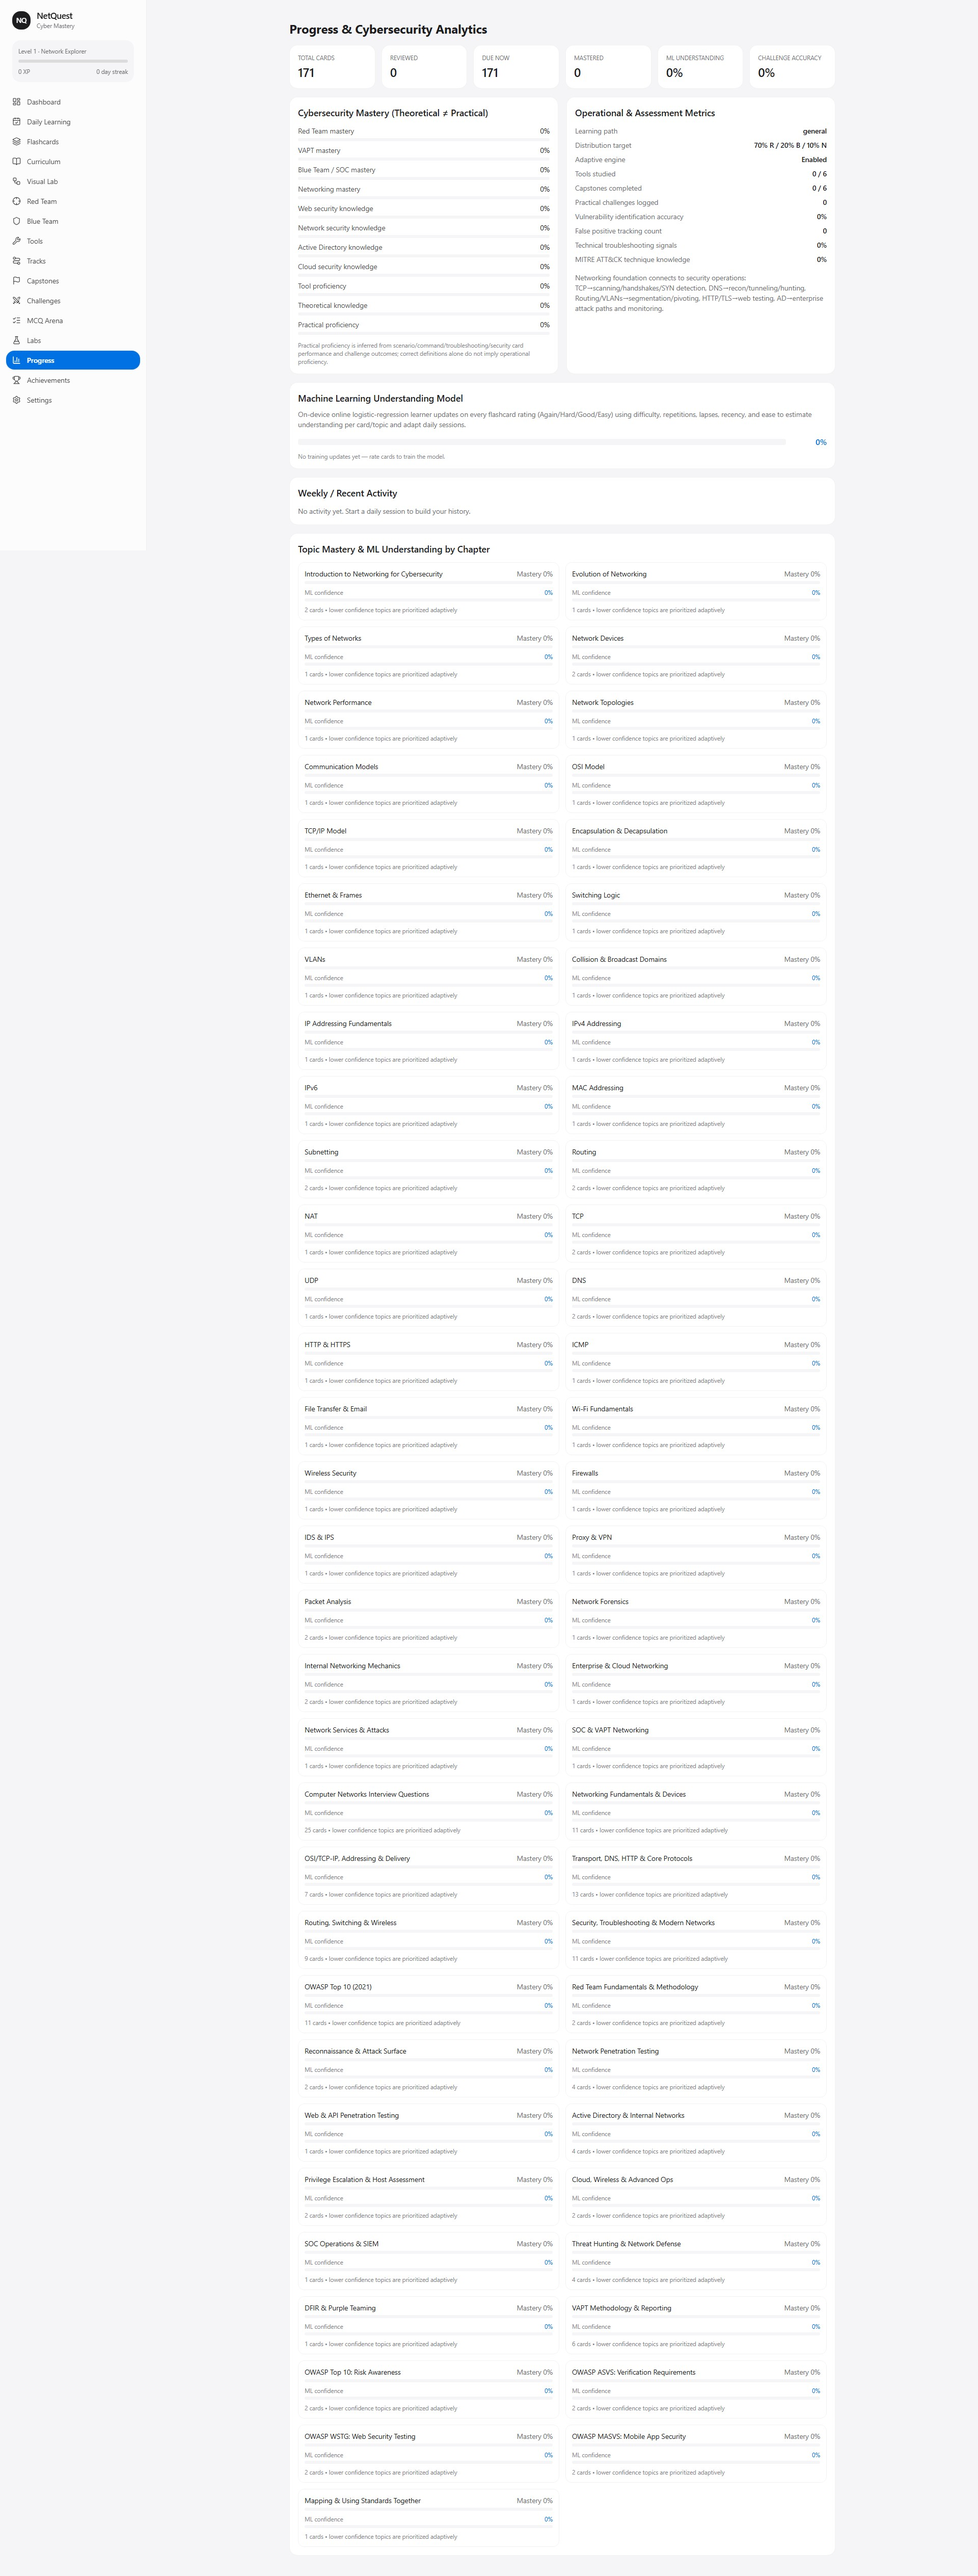
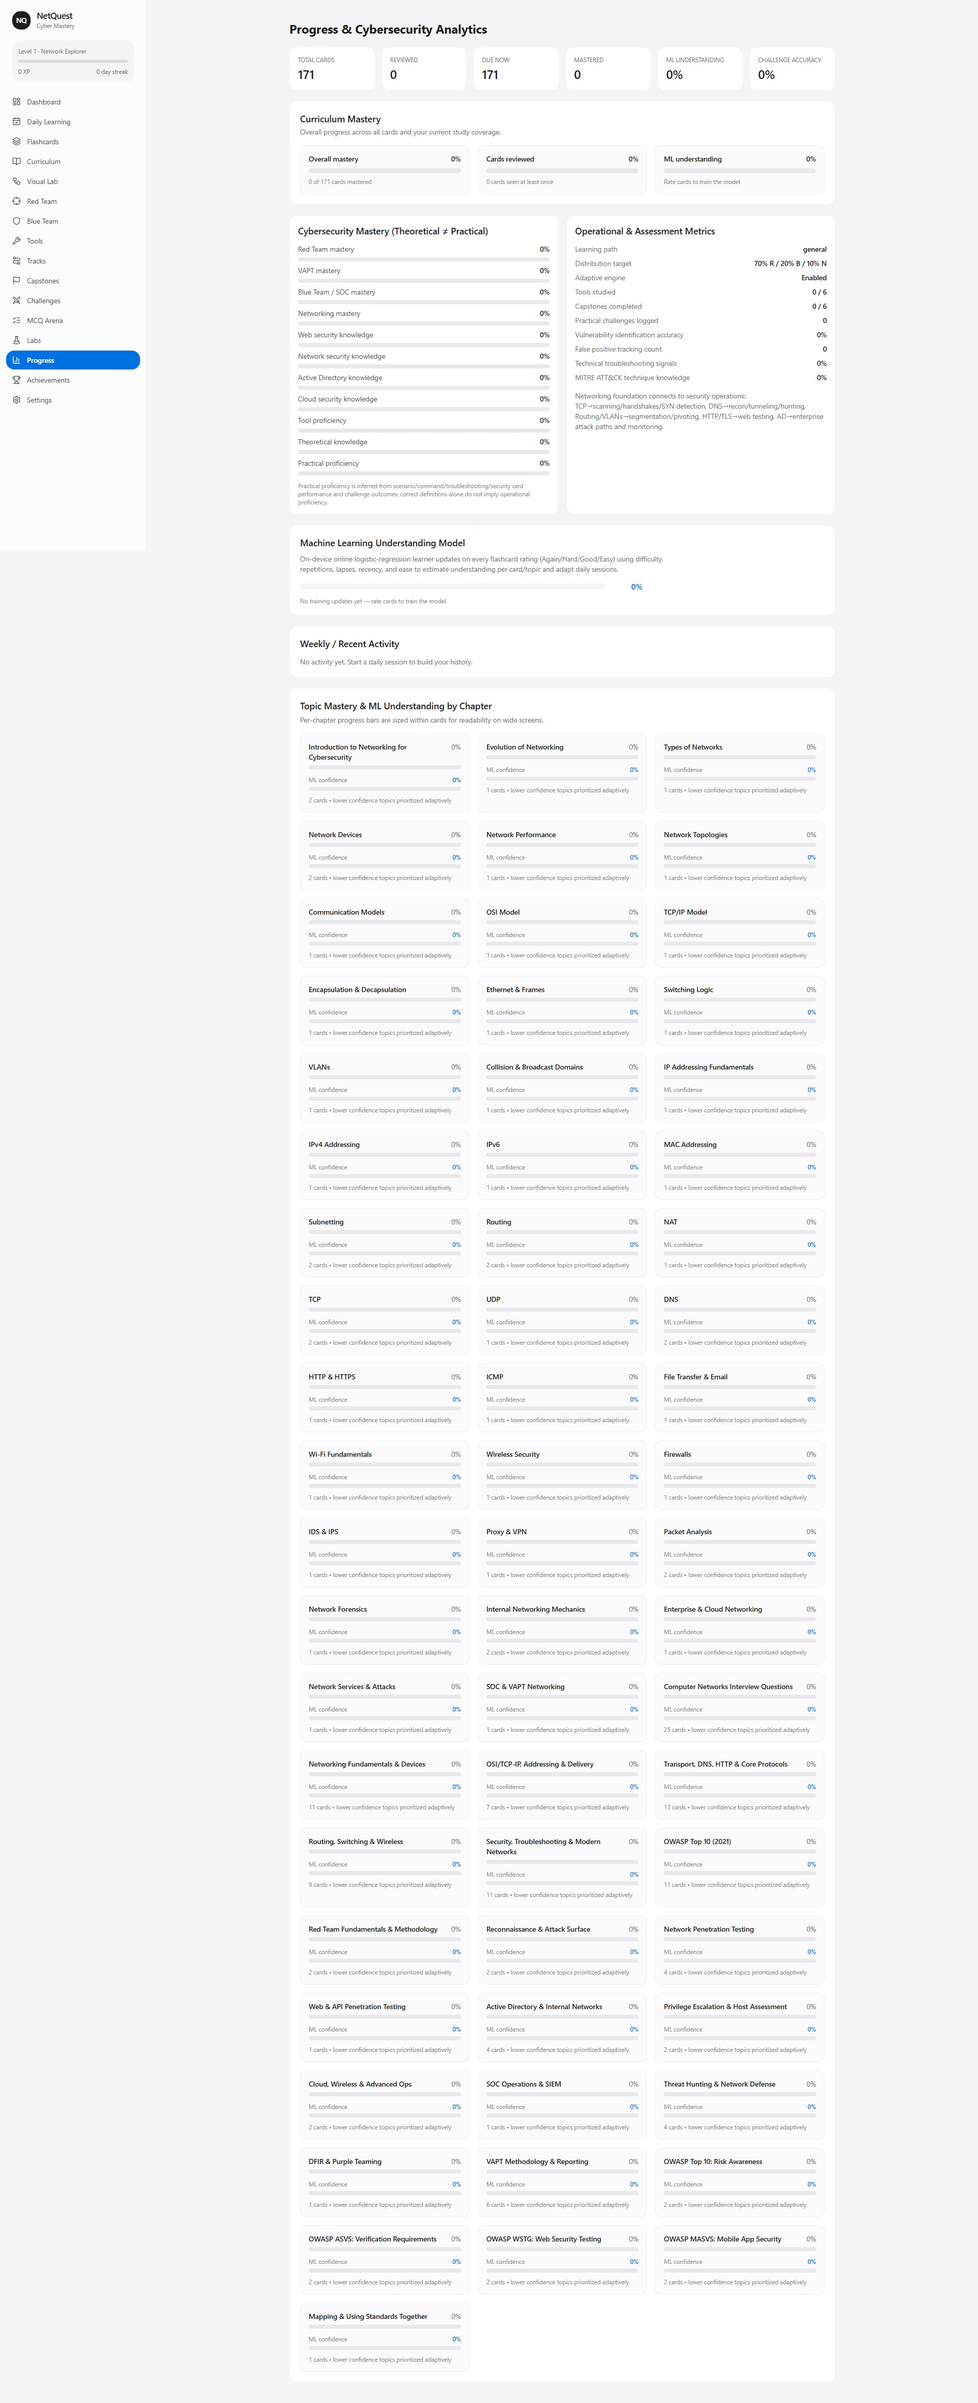
Improve Progress layout and retake progress screenshot

diff --git a/src/pages/Progress.tsx b/src/pages/Progress.tsx
@@ -11,6 +11,8 @@ export default function Progress() {
   const due = flashcards.filter(c => isDue(progress.reviews[c.id])).length
   const mlOverall = getOverallUnderstanding()
   const mlUpdates = progress.ml?.totalUpdates || 0
+  const completion = total ? Math.round((mastered / total) * 100) : 0
+  const reviewCoverage = total ? Math.round((reviewed / total) * 100) : 0
   const byChapter = chapters.map(ch => {
     const cards = flashcards.filter(f=>f.chapterId===ch.id)
     const avg = cards.length ? Math.round(cards.reduce((a,c)=>a+masteryFromReview(progress.reviews[c.id]),0)/cards.length) : 0
@@ -31,7 +33,7 @@ export default function Progress() {
   const practical = practicalCards.length ? Math.round((practicalCards.filter(c=> (progress.reviews[c.id]?.repetitions||0)>=4 && ['good','easy'].includes(progress.reviews[c.id]?.lastRating||'')).length / practicalCards.length)*100) : 0
   const theoretical = total ? Math.round((Object.values(progress.reviews).filter(r=>masteryFromReview(r)>=80).length / total)*100) : 0
 
-  return <div className="space-y-4">
+  return <div className="space-y-5">
     <h1 className="text-2xl font-bold text-[#1d1d1f]">Progress & Cybersecurity Analytics</h1>
     <div className="grid grid-cols-2 md:grid-cols-3 lg:grid-cols-6 gap-3">
       <Box label="Total Cards" value={`${total}`} />
@@ -40,6 +42,28 @@ export default function Progress() {
       <Box label="Mastered" value={`${mastered}`} />
       <Box label="ML Understanding" value={`${mlOverall}%`} />
       <Box label="Challenge Accuracy" value={`${challengeAcc}%`} />
+    </div>
+
+    <div className="rounded-2xl border border-black/5 bg-white p-5">
+      <h2 className="text-lg font-semibold text-[#1d1d1f]">Curriculum Mastery</h2>
+      <p className="text-sm text-[#6e6e73] mt-0.5">Overall progress across all cards and your current study coverage.</p>
+      <div className="mt-4 grid sm:grid-cols-2 lg:grid-cols-3 gap-4">
+        <div className="rounded-xl border border-black/5 bg-[#fbfbfd] p-4">
+          <div className="flex items-center justify-between gap-3 text-sm mb-2"><span className="text-[#1d1d1f] font-medium">Overall mastery</span><span className="text-[#1d1d1f] font-semibold">{completion}%</span></div>
+          <div className="h-2.5 rounded-full bg-[#e8e8ed] overflow-hidden max-w-md"><div className="h-full bg-gradient-to-r from-[#0071e3] to-[#34c759] rounded-full transition-all" style={{width:`${completion}%`}} /></div>
+          <div className="text-xs text-[#86868b] mt-2">{mastered} of {total} cards mastered</div>
+        </div>
+        <div className="rounded-xl border border-black/5 bg-[#fbfbfd] p-4">
+          <div className="flex items-center justify-between gap-3 text-sm mb-2"><span className="text-[#1d1d1f] font-medium">Cards reviewed</span><span className="text-[#1d1d1f] font-semibold">{reviewCoverage}%</span></div>
+          <div className="h-2.5 rounded-full bg-[#e8e8ed] overflow-hidden max-w-md"><div className="h-full bg-[#5ac8fa] rounded-full transition-all" style={{width:`${reviewCoverage}%`}} /></div>
+          <div className="text-xs text-[#86868b] mt-2">{reviewed} cards seen at least once</div>
+        </div>
+        <div className="rounded-xl border border-black/5 bg-[#fbfbfd] p-4">
+          <div className="flex items-center justify-between gap-3 text-sm mb-2"><span className="text-[#1d1d1f] font-medium">ML understanding</span><span className="text-[#1d1d1f] font-semibold">{mlOverall}%</span></div>
+          <div className="h-2.5 rounded-full bg-[#e8e8ed] overflow-hidden max-w-md"><div className="h-full bg-gradient-to-r from-cyan-500 to-emerald-400 rounded-full transition-all" style={{width:`${mlOverall}%`}} /></div>
+          <div className="text-xs text-[#86868b] mt-2">{mlUpdates === 0 ? 'Rate cards to train the model' : `${mlUpdates} training updates`}</div>
+        </div>
+      </div>
     </div>
 
     <div className="grid md:grid-cols-2 gap-4">
@@ -78,28 +102,29 @@ export default function Progress() {
       </div>
     </div>
 
-    <div className="rounded-2xl border border-black/5 bg-white p-4">
+    <div className="rounded-2xl border border-black/5 bg-white p-5">
       <h2 className="text-lg font-semibold text-[#1d1d1f] mb-2">Machine Learning Understanding Model</h2>
-      <p className="text-sm text-[#6e6e73] mb-3">On-device online logistic-regression learner updates on every flashcard rating (Again/Hard/Good/Easy) using difficulty, repetitions, lapses, recency, and ease to estimate understanding per card/topic and adapt daily sessions.</p>
-      <div className="flex items-center gap-4">
-        <div className="flex-1 h-3 rounded bg-[#f5f5f7] overflow-hidden"><div className="h-full bg-gradient-to-r from-cyan-500 to-emerald-400" style={{width:`${mlOverall}%`}} /></div>
-        <div className="text-[#0071e3] font-semibold w-16 text-right">{mlOverall}%</div>
+      <p className="text-sm text-[#6e6e73] mb-3 max-w-3xl">On-device online logistic-regression learner updates on every flashcard rating (Again/Hard/Good/Easy) using difficulty, repetitions, lapses, recency, and ease to estimate understanding per card/topic and adapt daily sessions.</p>
+      <div className="flex items-center gap-4 max-w-2xl">
+        <div className="flex-1 h-3 rounded-full bg-[#f5f5f7] overflow-hidden"><div className="h-full bg-gradient-to-r from-cyan-500 to-emerald-400 rounded-full transition-all" style={{width:`${mlOverall}%`}} /></div>
+        <div className="text-[#0071e3] font-semibold w-14 text-right tabular-nums">{mlOverall}%</div>
       </div>
       <div className="text-xs text-[#86868b] mt-2">{mlUpdates === 0 ? 'No training updates yet — rate cards to train the model.' : `Trained on ${mlUpdates} rating events with persistent model weights and topic understanding.`}</div>
     </div>
 
-    <div className="rounded-2xl border border-black/5 bg-white p-4">
+    <div className="rounded-2xl border border-black/5 bg-white p-5">
       <h2 className="text-lg font-semibold text-[#1d1d1f] mb-3">Weekly / Recent Activity</h2>
-      <div className="space-y-2">{progress.history.slice().reverse().slice(0,14).map(h=> <div key={h.date} className="flex items-center gap-3 text-sm"><div className="w-28 text-[#6e6e73]">{h.date}</div><div className="flex-1 h-2 bg-[#f5f5f7] rounded overflow-hidden"><div className="h-full bg-[#0071e3]" style={{width:`${Math.min(100,h.cards*10)}%`}} /></div><div className="w-28 text-right text-[#1d1d1f]/80">{h.cards} cards • {h.xp} XP</div></div>)}
+      <div className="space-y-2.5 max-w-3xl">{progress.history.slice().reverse().slice(0,14).map(h=> <div key={h.date} className="flex items-center gap-3 text-sm"><div className="w-28 shrink-0 text-[#6e6e73]">{h.date}</div><div className="flex-1 h-2.5 bg-[#f5f5f7] rounded-full overflow-hidden"><div className="h-full bg-[#0071e3] rounded-full transition-all" style={{width:`${Math.min(100,h.cards*10)}%`}} /></div><div className="w-32 shrink-0 text-right text-[#1d1d1f]/80 tabular-nums">{h.cards} cards • {h.xp} XP</div></div>)}
       {progress.history.length===0 && <div className="text-[#6e6e73] text-sm">No activity yet. Start a daily session to build your history.</div>}</div>
     </div>
 
-    <div className="rounded-2xl border border-black/5 bg-white p-4">
-      <h2 className="text-lg font-semibold text-[#1d1d1f] mb-3">Topic Mastery & ML Understanding by Chapter</h2>
-      <div className="grid md:grid-cols-2 gap-3">{byChapter.map(({ch,count,avg,ml})=> <div key={ch.id} className="border border-black/5 rounded-xl p-3"><div className="flex justify-between text-sm mb-1"><span className="text-[#1d1d1f]">{ch.title}</span><span className="text-[#6e6e73]">Mastery {avg}%</span></div><div className="h-1.5 bg-[#f5f5f7] rounded overflow-hidden mb-2"><div className="h-full bg-blue-500" style={{width:`${avg}%`}} /></div><div className="flex justify-between text-xs mb-1"><span className="text-[#86868b]">ML confidence</span><span className="text-[#0071e3]">{ml}%</span></div><div className="h-1.5 bg-[#f5f5f7] rounded overflow-hidden"><div className="h-full bg-[#0071e3]" style={{width:`${ml}%`}} /></div><div className="text-xs text-[#86868b] mt-2">{count} cards • lower confidence topics are prioritized adaptively</div></div>)}</div>
+    <div className="rounded-2xl border border-black/5 bg-white p-5">
+      <h2 className="text-lg font-semibold text-[#1d1d1f] mb-1">Topic Mastery & ML Understanding by Chapter</h2>
+      <p className="text-sm text-[#6e6e73] mb-4">Per-chapter progress bars are sized within cards for readability on wide screens.</p>
+      <div className="grid sm:grid-cols-2 xl:grid-cols-3 gap-4">{byChapter.map(({ch,count,avg,ml})=> <div key={ch.id} className="border border-black/5 rounded-xl p-4 bg-[#fbfbfd]"><div className="flex justify-between gap-3 text-sm mb-1.5"><span className="text-[#1d1d1f] font-medium line-clamp-2">{ch.title}</span><span className="text-[#6e6e73] shrink-0 tabular-nums">{avg}%</span></div><div className="h-2 bg-[#e8e8ed] rounded-full overflow-hidden mb-3"><div className="h-full bg-blue-500 rounded-full transition-all" style={{width:`${avg}%`}} /></div><div className="flex justify-between text-xs mb-1.5"><span className="text-[#86868b]">ML confidence</span><span className="text-[#0071e3] font-medium tabular-nums">{ml}%</span></div><div className="h-2 bg-[#e8e8ed] rounded-full overflow-hidden"><div className="h-full bg-[#0071e3] rounded-full transition-all" style={{width:`${ml}%`}} /></div><div className="text-xs text-[#86868b] mt-2.5">{count} cards • lower confidence topics prioritized adaptively</div></div>)}</div>
     </div>
   </div>
 }
 function Box({label,value}:{label:string,value:string}){return <div className="rounded-2xl border border-black/5 bg-white p-4"><div className="text-xs uppercase text-[#6e6e73]">{label}</div><div className="text-2xl text-[#1d1d1f] font-semibold mt-1">{value}</div></div>}
 function Row({k,v}:{k:string,v:string}){return <div className="flex justify-between gap-3 text-sm"><span className="text-[#6e6e73]">{k}</span><span className="text-[#1d1d1f] font-medium text-right">{v}</span></div>}
-function Bar({label,value,color}:{label:string,value:number,color:string}){return <div><div className="flex justify-between mb-1"><span className="text-[#1d1d1f]/80">{label}</span><span className="text-[#1d1d1f]">{value}%</span></div><div className="h-1.5 rounded bg-[#f5f5f7] overflow-hidden"><div className={`h-full ${color}`} style={{width:`${Math.max(0,Math.min(100,value))}%`}} /></div></div>}
+function Bar({label,value,color}:{label:string,value:number,color:string}){return <div><div className="flex justify-between mb-1.5"><span className="text-[#1d1d1f]/80">{label}</span><span className="text-[#1d1d1f] font-medium tabular-nums">{value}%</span></div><div className="h-2 rounded-full bg-[#e8e8ed] overflow-hidden max-w-xl"><div className={`h-full ${color} rounded-full transition-all`} style={{width:`${Math.max(0,Math.min(100,value))}%`}} /></div></div>}
